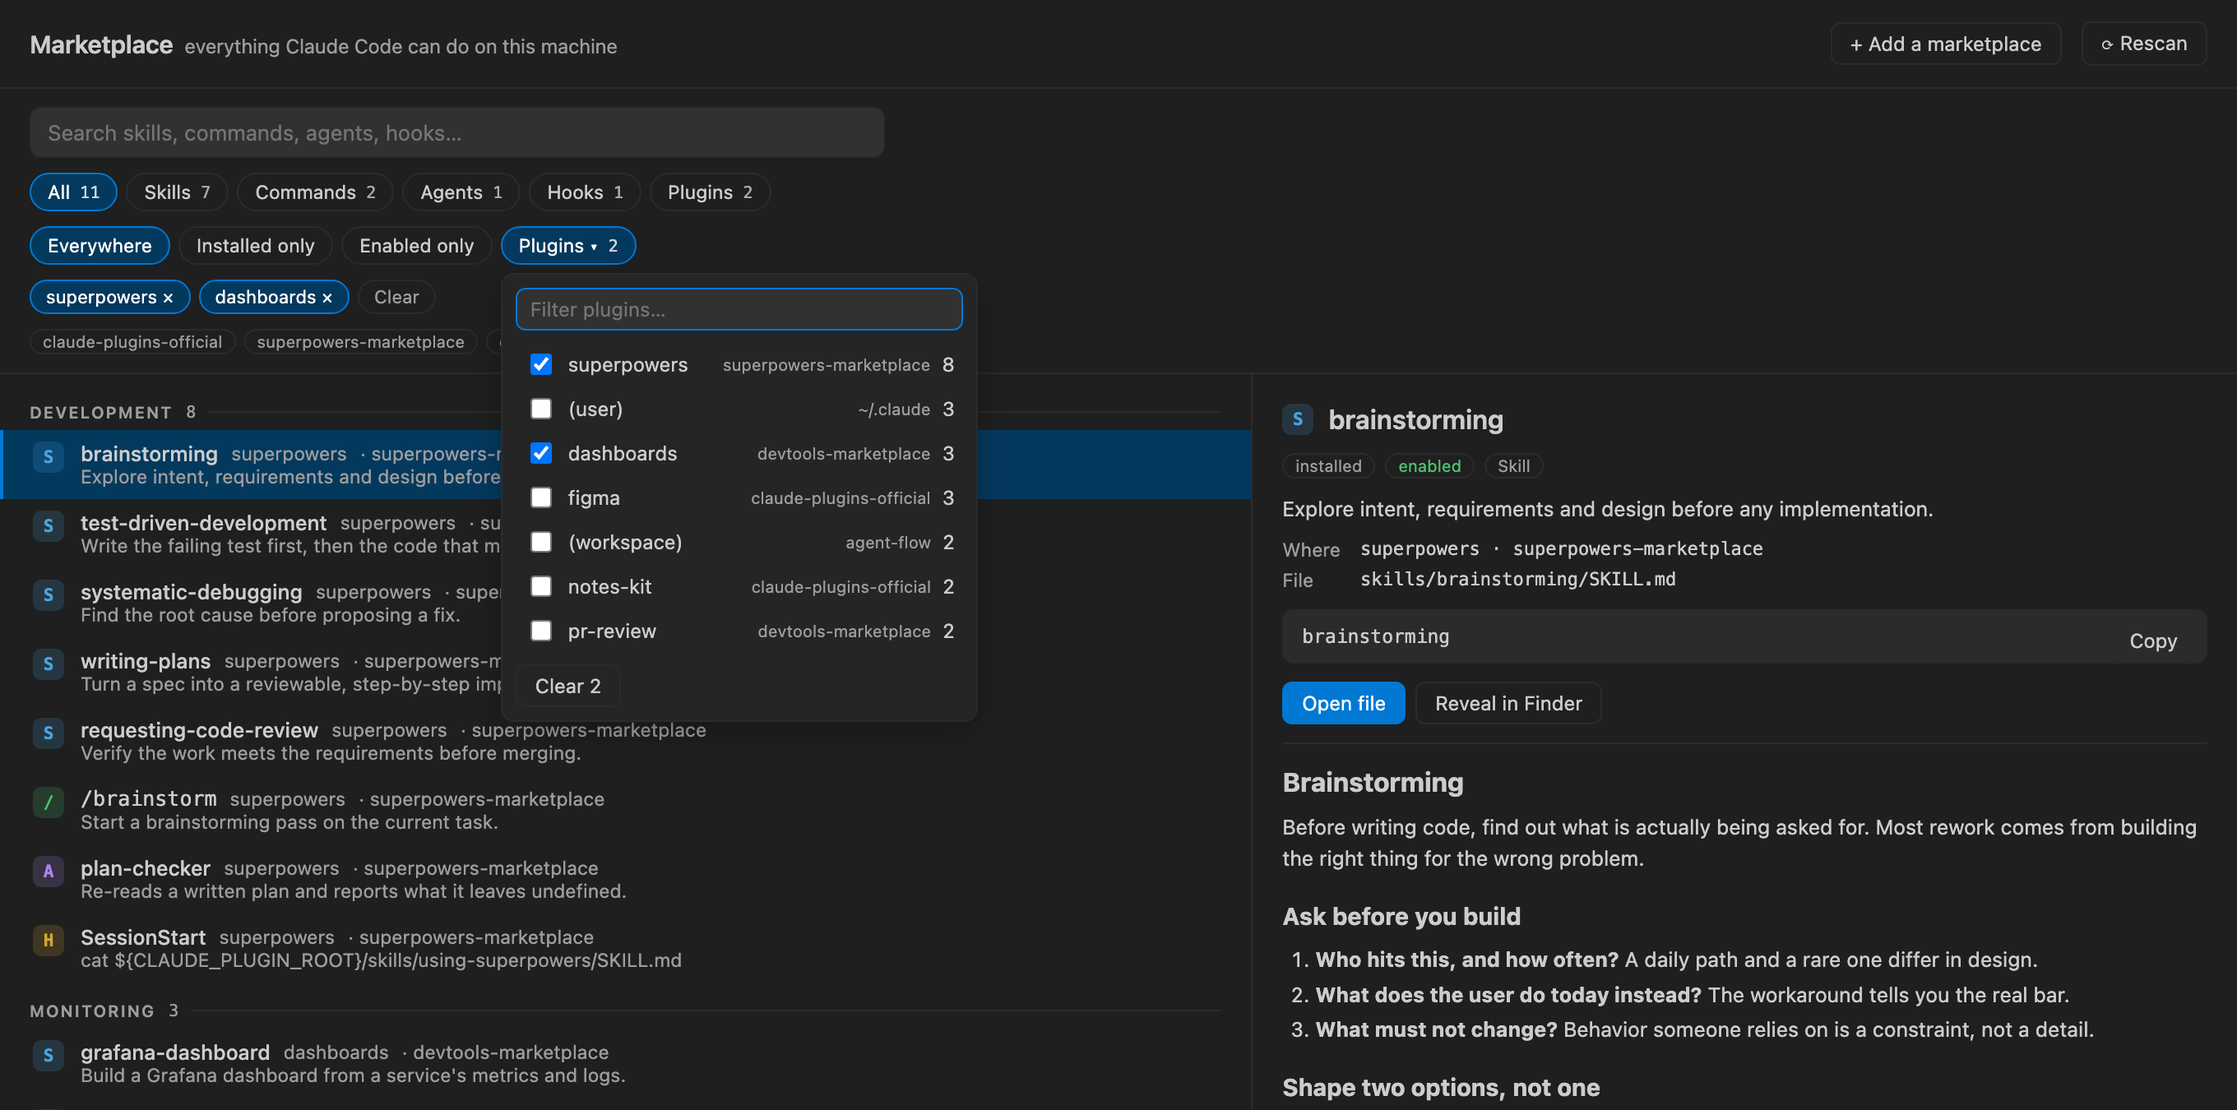
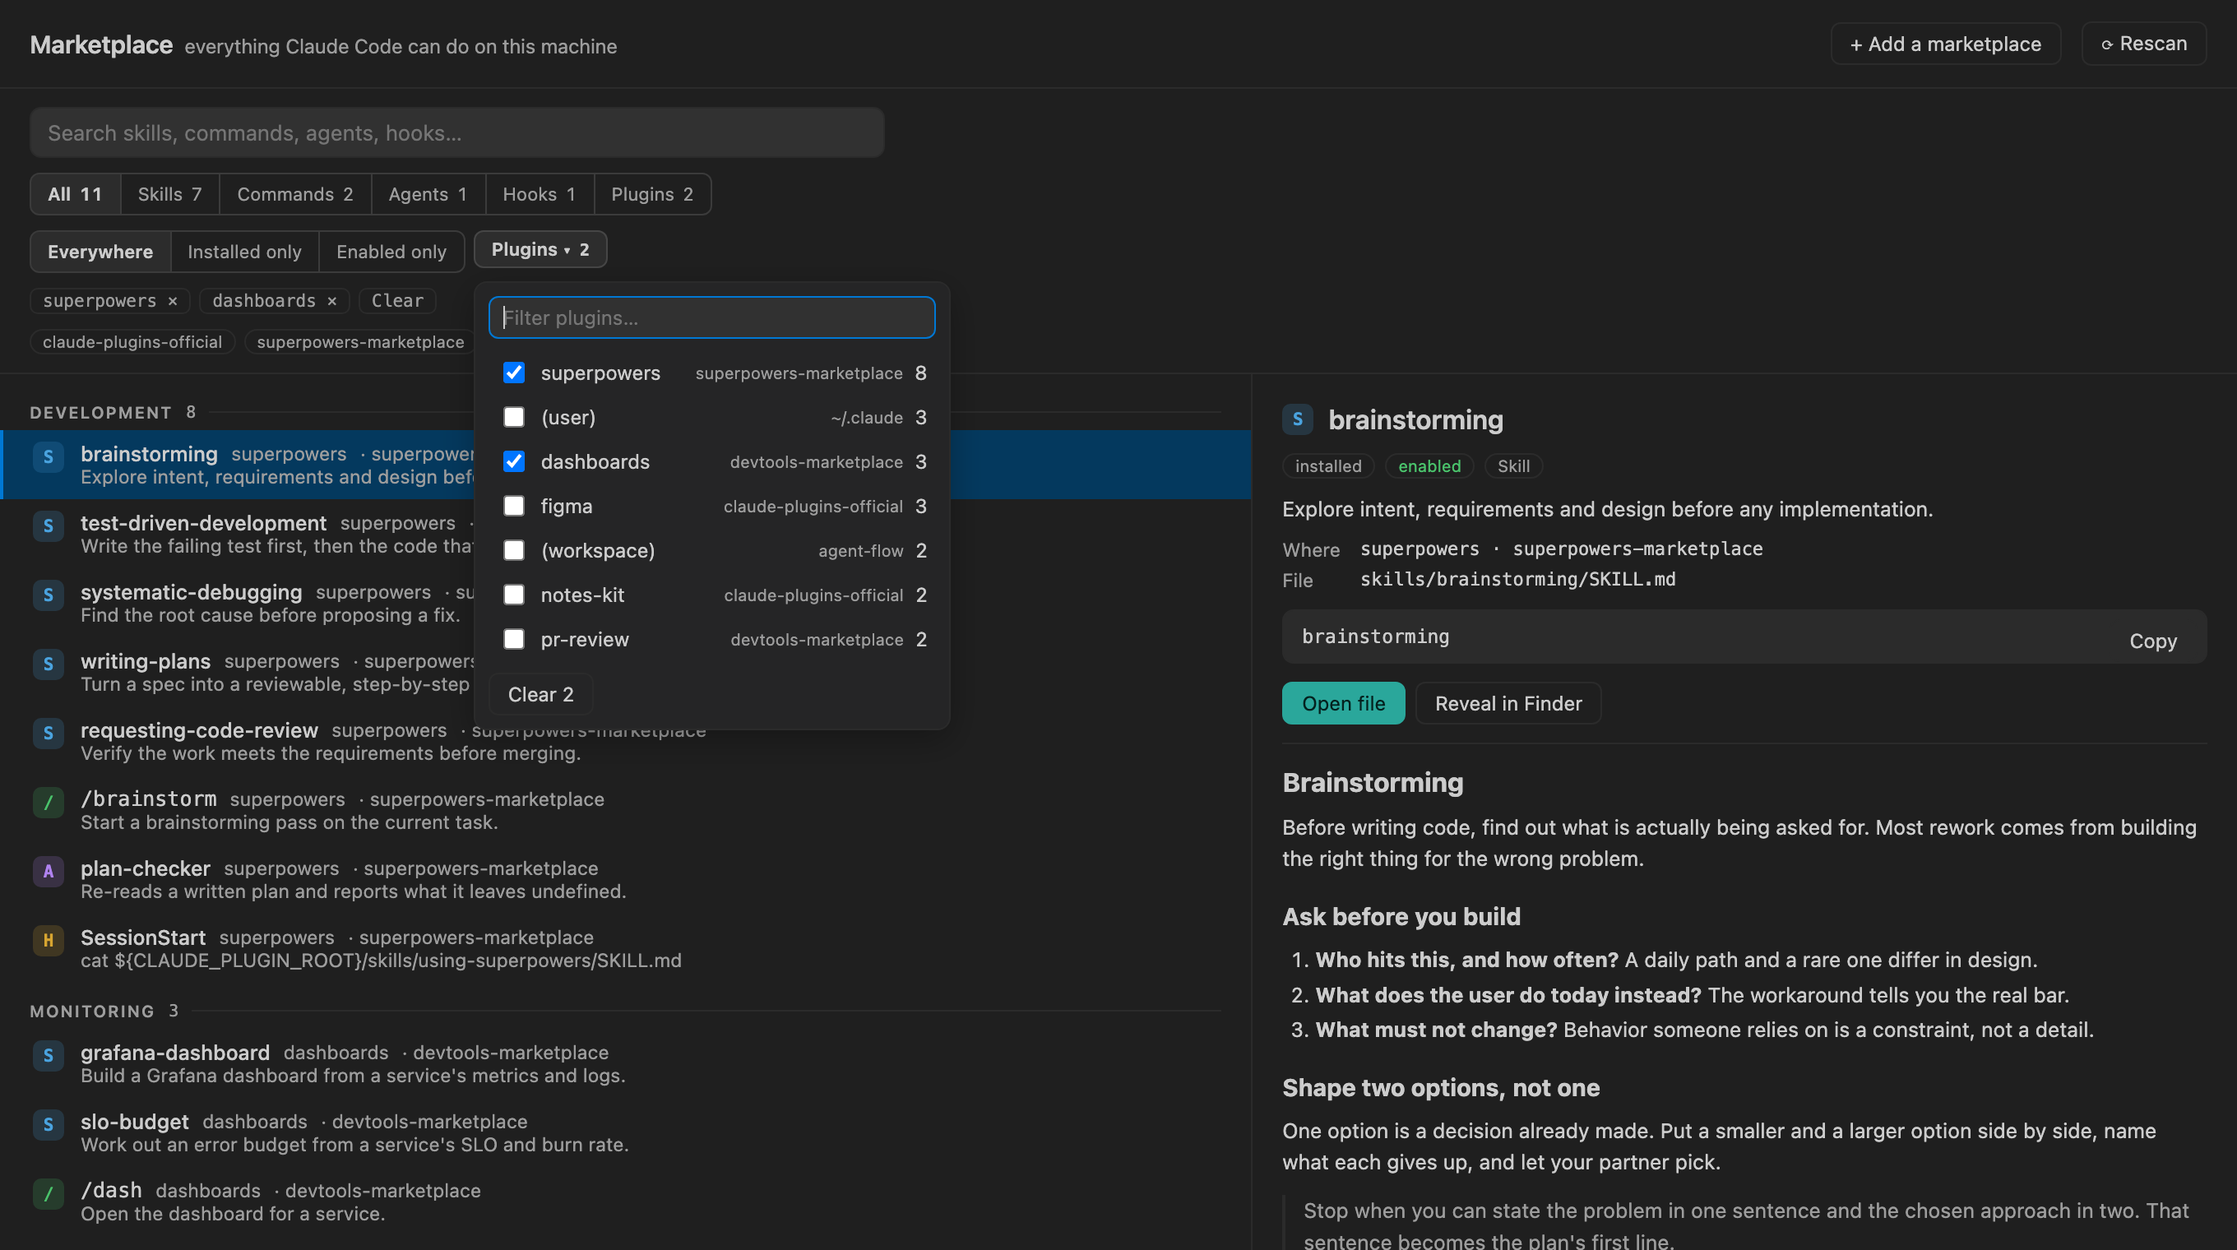
fix(webview): close the whole-branch review's CSS and behaviour findings
Nine defects only visible once all eight tasks' diffs were read together:

- .seg and the Deck's .ctls both clip an outward focus ring against their own
  radius, so keyboard focus was invisible on every sidebar lens, both
  Marketplace filter groups, and the Deck's segmented controls. Draw the ring
  inside instead (outline-offset: -2px) in both CONTROLS_CSS and deckStyles.ts.
- .act.primary:hover filled theme blue while the sidebar's Take and the
  Marketplace's Open file stayed teal under the pointer. Escalate the same
  brand hue on hover instead, and correct the neighbouring comment, which
  explained hover behaviour that predates the accent.
- liveCount was computed only in postState, so the header gauge was a
  mount-time snapshot despite its own doc comment claiming otherwise. Carry it
  on the tasks message too, recomputed from the same liveWindows() helper and
  trackOpenWindows gate every time the pool refreshes.
- .batch-launch (the sticky bar directly beneath a column of teal Take
  buttons) and .gate .btn (Sign in to Jira / Run setup) were the last two
  filled controls still on the theme's blue button color; both are now the
  accent, since each is the primary verb of its own state.
- .explore and .address-pr/.sprint-add/.sprint-remove carried nine identical
  declarations and identical :hover blocks (Tasks 4 and 5b couldn't see each
  other's edit); merged into one selector list with the two real differences
[…]

diff --git a/src/webview/styles.ts b/src/webview/styles.ts
@@ -9,7 +9,7 @@ export const CSS = `
   #root { padding: 8px 8px 20px; }
 
   .header { display: flex; align-items: center; gap: 8px; padding: 4px 4px 10px; }
-  .header .title { display: inline-flex; align-items: center; gap: 6px; font-weight: 600; font-size: 13px; }
+  .header .title { display: inline-flex; align-items: center; gap: 6px; font-weight: 600; font-size: var(--t-title); }
   .header .me { color: var(--vscode-descriptionForeground); font-size: 11px; margin-left: 8px; }
 
   /* The mark is the sidebar's status display: lit dots are open Agent Flow
@@ -20,14 +20,8 @@ export const CSS = `
   .gauge .unlit { fill: currentColor; opacity: .26; }
   .gauge .tex { fill: currentColor; opacity: .4; }
   /* The pool's one filled control is Take. Explore is the way out when no ticket
-     fits — useful, not primary — so it takes the secondary language. */
-  .explore { display: inline-flex; align-items: center; gap: 5px; margin-left: auto;
-    font-size: var(--t-body); font-weight: 500; height: 24px; padding: 0 10px;
-    border-radius: var(--r-ctl); cursor: pointer;
-    border: 1px solid var(--edge); background: transparent; color: var(--vscode-foreground);
-    transition: background-color .12s ease, border-color .12s ease; }
-  .explore:hover { background: var(--vscode-toolbar-hoverBackground);
-    border-color: color-mix(in srgb, var(--vscode-foreground) 30%, transparent); }
+     fits — useful, not primary — so it shares the secondary action language below
+     with Address PR and the sprint actions, rather than repeating it. */
   .explore svg { display: block; }
 
   .lenses { display: flex; flex-direction: column; gap: 6px; margin: 0 2px 10px; }
@@ -135,7 +129,7 @@ export const CSS = `
      means exactly one thing, and it is the Highest chip. */
   .status--new, .status--indeterminate, .status--done { color: var(--dim); }
   .spacer { flex: 1; }
-  .take { display: inline-flex; align-items: center; gap: 5px; font-size: 11px; font-weight: 600;
+  .take { display: inline-flex; align-items: center; gap: 5px; font-size: var(--t-body); font-weight: 600;
     padding: 3px 11px 3px 9px; border-radius: var(--r-ctl); cursor: pointer; border: none;
     background: var(--brand); color: var(--brand-ink);
     transition: background .12s ease; }
@@ -145,15 +139,20 @@ export const CSS = `
   /* Right-aligned action cluster; wraps together to its own line if the row is tight */
   .card-actions { display: inline-flex; align-items: center; gap: 7px; margin-left: auto; }
 
-  /* Address PR gives up its green: green means Done on the Deck, and a PR waiting
-     on you is the opposite of done. */
-  .address-pr, .sprint-add, .sprint-remove {
+  /* One quiet secondary language for every non-Take action: Explore (the pool's
+     escape hatch), Address PR (which gives up its green — green means Done on the
+     Deck, and a PR waiting on you is the opposite of done) and the sprint actions.
+     Explore is the only one pushed to the row's far side; the other three are the
+     only ones that must never wrap their own label. */
+  .explore, .address-pr, .sprint-add, .sprint-remove {
     display: inline-flex; align-items: center; gap: 5px; font-size: var(--t-body); font-weight: 500;
-    height: 24px; padding: 0 10px; border-radius: var(--r-ctl); cursor: pointer; white-space: nowrap;
+    height: 24px; padding: 0 10px; border-radius: var(--r-ctl); cursor: pointer;
     border: 1px solid var(--edge); background: transparent; color: var(--vscode-foreground);
     transition: background-color .12s ease, border-color .12s ease; }
+  .explore { margin-left: auto; }
+  .address-pr, .sprint-add, .sprint-remove { white-space: nowrap; }
   .sprint-remove { color: var(--dim); }
-  .address-pr:hover, .sprint-add:hover, .sprint-remove:hover {
+  .explore:hover, .address-pr:hover, .sprint-add:hover, .sprint-remove:hover {
     background: var(--vscode-toolbar-hoverBackground);
     border-color: color-mix(in srgb, var(--vscode-foreground) 30%, transparent); }
   /* Icon-only: a square of the same height, so the row reads as one set of controls. */
@@ -223,14 +222,16 @@ export const CSS = `
      italics, matching the Deck's ~inferred convention. */
   .svc { font-family: var(--mono); font-size: var(--t-data); padding: 1px 6px;
     border-radius: var(--r-chip); border: 1px solid var(--hair); color: var(--dim); }
-  .svc.guess { font-style: normal; opacity: .8; }
+  .svc.guess { opacity: .8; }
 
   .empty, .gate { text-align: center; color: var(--vscode-descriptionForeground);
     padding: 28px 12px; font-size: 12px; }
+  /* Sign in to Jira / Run setup — the one action the gate screen offers, so it is
+     a primary verb the same way Take is. */
   .gate .btn { margin-top: 12px; padding: 6px 16px; border: none; border-radius: 4px;
-    background: var(--vscode-button-background); color: var(--vscode-button-foreground);
+    background: var(--brand); color: var(--brand-ink);
     cursor: pointer; font-size: 12px; }
-  .gate .btn:hover { background: var(--vscode-button-hoverBackground); }
+  .gate .btn:hover { background: color-mix(in srgb, var(--brand) 84%, var(--vscode-foreground)); }
   .gate .gate-error { color: var(--vscode-errorForeground); line-height: 1.5; }
   .loading { color: var(--vscode-descriptionForeground); font-size: 12px; padding: 12px 4px; }
 
@@ -268,8 +269,10 @@ export const CSS = `
   .batch-count { font-size: 11px; color: var(--vscode-descriptionForeground); }
   .batch-selectall, .batch-clear { background: none; border: none; cursor: pointer; padding: 0;
     font-size: 11px; color: var(--vscode-textLink-foreground); }
+  /* The sticky bar's one action, directly beneath a column of teal Take buttons —
+     the same verb, so the same fill. */
   .batch-launch { margin-left: auto; display: inline-flex; align-items: center; gap: 5px;
     font-size: 12px; padding: 4px 12px; border-radius: 8px; border: none; cursor: pointer;
-    background: var(--vscode-button-background); color: var(--vscode-button-foreground); }
-  .batch-launch:hover { background: var(--vscode-button-hoverBackground); }
+    background: var(--brand); color: var(--brand-ink); }
+  .batch-launch:hover { background: color-mix(in srgb, var(--brand) 84%, var(--vscode-foreground)); }
 `;

diff --git a/src/webview/deckStyles.ts b/src/webview/deckStyles.ts
@@ -51,6 +51,9 @@ export const DECK_CSS = `
   .ctls { display: inline-flex; flex: none; border: 1px solid var(--edge); border-radius: var(--r-ctl); overflow: hidden; }
   .ctls .ctl { border: 0; border-radius: 0; }
   .ctls .ctl + .ctl { box-shadow: inset 1px 0 0 var(--edge); }
+  /* .ctls clips its children against its own radius, which also clips an outward
+     focus ring drawn by :focus-visible. Draw it inside instead. */
+  .ctls .ctl:focus-visible { outline-offset: -2px; }
   .ctl { display: inline-flex; align-items: center; gap: 7px; height: 26px; cursor: pointer; user-select: none;
     font-size: var(--t-body); padding: 0 10px; border-radius: var(--r-ctl); white-space: nowrap;
     border: 1px solid var(--edge); background: transparent; color: var(--dim);
@@ -205,15 +208,21 @@ export const DECK_CSS = `
     background: color-mix(in srgb, var(--brand) 13%, transparent);
     border-color: color-mix(in srgb, var(--brand) 52%, transparent);
     color: color-mix(in srgb, var(--brand) 72%, var(--vscode-foreground)); }
-  .act.primary:hover { background: var(--vscode-button-background); color: var(--vscode-button-foreground);
-    border-color: var(--vscode-button-background); }
+  /* Same hue, more of it — matching how .take and .btn.pri escalate on hover. The
+     ordinary primary stays teal under the pointer instead of swapping to the
+     theme's own button blue. */
+  .act.primary:hover { background: color-mix(in srgb, var(--brand) 22%, transparent);
+    border-color: color-mix(in srgb, var(--brand) 68%, transparent);
+    color: color-mix(in srgb, var(--brand) 84%, var(--vscode-foreground)); }
   /* The board's only colored call to action, on the only card that is asking for one.
      Outlined rather than filled on purpose: a theme owns charts.orange, and it ranges
      from pale amber to burnt sienna, so no fixed ink is legible on all of them. Mixing
      the label toward the theme's own foreground self-corrects — it darkens the orange on
-     a light theme and lightens it on a dark one, clearing 5:1 either way. Hover is
-     deliberately not overridden: every primary on the board fills with the theme's
-     button colors, so the attn card differs only at rest. */
+     a light theme and lightens it on a dark one, clearing 5:1 either way. This rule has
+     no :hover of its own, and its selector out-specifies .act.primary:hover (four class
+     steps against three), so hovering an attn card's primary keeps these rest colors
+     rather than picking up the ordinary primary's teal escalation — attn and ordinary
+     differ in hue, hovered or not. */
   .card.attn .act.primary { background: color-mix(in srgb, var(--c-attn) 12%, transparent);
     border-color: color-mix(in srgb, var(--c-attn) 60%, transparent);
     color: color-mix(in srgb, var(--c-attn) 78%, var(--vscode-foreground)); }

diff --git a/src/webview/tokens.ts b/src/webview/tokens.ts
@@ -51,10 +51,10 @@ export const TOKENS_CSS = `
 
   /* VS Code stamps the theme kind onto <body>, so the swap needs no JavaScript. */
   body.vscode-light { --brand: #157F76; --brand-ink: #ffffff; }
-  /* No high-contrast override: the CSS current-color keyword, used outside the
-     color property itself, would resolve a filled button's background to its
-     own label color. The hue already measures 7.10:1 on #000000 and 4.85:1 on
-     #ffffff, so it needs no opt-out. */
+  /* No high-contrast override: currentColor, used outside the color property
+     itself, would resolve a filled button's background to its own label color.
+     The hue already measures 7.10:1 on #000000 and 4.85:1 on #ffffff, so it
+     needs no opt-out. */
 `;
 
 // box-sizing and the reduced-motion query were common to all three surfaces;
@@ -78,6 +78,10 @@ export const BASE_CSS = `
 // signal nothing, and a filled pill next to a teal Take reads as two primaries.
 export const CONTROLS_CSS = `
   .seg { display: inline-flex; flex-wrap: wrap; border: 1px solid var(--edge); border-radius: var(--r-ctl); overflow: hidden; }
+  /* A real border, not the inset-shadow separator .ctl uses: that separator strands
+     itself at the start of a wrapped row (nothing to sit against), where a border
+     just doesn't render on an edge that isn't there. */
+  .seg > button:not(:first-child) { border-left: 1px solid var(--edge); }
   .seg > button { font: inherit; font-size: var(--t-body); height: 24px; padding: 0 10px;
     border: 0; border-radius: 0; background: transparent; color: var(--dim);
     cursor: pointer; white-space: nowrap;
@@ -85,5 +89,8 @@ export const CONTROLS_CSS = `
   .seg > button:hover { background: var(--vscode-toolbar-hoverBackground); color: var(--vscode-foreground); }
   .seg > button[aria-pressed="true"] { color: var(--vscode-foreground); font-weight: 600;
     background: color-mix(in srgb, var(--vscode-foreground) 8%, transparent); }
+  /* .seg clips its children against its own radius, which also clips an outward
+     focus ring. Draw it inside instead — an invisible focus ring is not a focus ring. */
+  .seg > button:focus-visible { outline-offset: -2px; }
   .seg-label { font-size: var(--t-micro); color: var(--dim); margin-right: 2px; }
 `;

diff --git a/src/webview/marketplaceStyles.ts b/src/webview/marketplaceStyles.ts
@@ -38,14 +38,15 @@ export const MARKETPLACE_CSS = `
   .pill { cursor: pointer; font-family: inherit; font-size: var(--t-body); padding: 4px 10px;
     border-radius: var(--r-ctl); border: 1px solid var(--edge); background: transparent; color: var(--dim); }
   .pill:hover { background: var(--vscode-toolbar-hoverBackground); color: var(--vscode-foreground); }
-  .pill.on { color: var(--vscode-foreground); font-weight: 600; }
+  .pill.on { color: var(--vscode-foreground); font-weight: 600;
+    background: color-mix(in srgb, var(--vscode-foreground) 8%, transparent); }
   .pill .n { margin-left: 5px; font-family: var(--mono); font-size: var(--t-micro); color: var(--dim); }
   .pill.on .n { color: var(--vscode-foreground); }
 
   .srcs { display: flex; gap: 5px; flex-wrap: wrap; }
   .tag { font-size: 10px; padding: 1px 7px; border-radius: 20px; border: 1px solid var(--hair);
     color: var(--vscode-descriptionForeground); white-space: nowrap; }
-  .tag.ok { color: var(--vscode-charts-green, #4ac26b); }
+  .tag.ok { color: var(--c-done); }
   .tag.off { text-decoration: line-through; }
   .tag.bad { color: var(--vscode-errorForeground); border-color: var(--vscode-errorForeground); }
   .tag.dim { opacity: .8; }
@@ -141,7 +142,7 @@ export const MARKETPLACE_CSS = `
   .toasts { position: fixed; bottom: 16px; right: 16px; display: flex; flex-direction: column; gap: 8px; }
   .toast { padding: 8px 14px; border-radius: 6px; font-size: 12px; border: 1px solid var(--hair);
     background: var(--vscode-editorWidget-background); }
-  .toast.success { border-color: var(--vscode-charts-green, #4ac26b); }
+  .toast.success { border-color: var(--c-done); }
   .toast.error { border-color: var(--vscode-errorForeground); }
 
   .results::-webkit-scrollbar, .detail::-webkit-scrollbar { width: 9px; }

diff --git a/src/types.ts b/src/types.ts
@@ -340,7 +340,10 @@ export type OutboundMessage =
   // liveCount is absent when trackOpenWindows is off: the sidebar then shows the
   // static mark rather than claiming zero windows are open.
   | { type: "state"; authed: boolean; configured: boolean; project: string; me: string | null; prReviewStatus: string; filters: FilterVisibility; liveCount?: number }
-  | { type: "tasks"; filter: Filter; tasks: JiraTask[] }
+  // Recomputed on every pool refresh (same trackOpenWindows gate and liveWindows()
+  // source as `state`'s liveCount), so the header gauge doesn't go stale between
+  // `state` posts — it was previously a mount-time snapshot only.
+  | { type: "tasks"; filter: Filter; tasks: JiraTask[]; liveCount?: number }
   | { type: "detail"; key: string; descriptionText: string; inferred: string[]; repos: string[];
       // The components actually on the issue, spelled as Jira spells them, and the
       // repo → component map for every discovered repo. Together with `inferred`

diff --git a/src/webview/GaugeMark.tsx b/src/webview/GaugeMark.tsx
@@ -16,10 +16,11 @@ const INNER: [number, number][] = [
 const STATIC_LIT = 6;
 
 /**
- * The mark, doubling as a gauge. `live` is the number of Agent Flow windows open
- * right now; omit it (the host omits it when trackOpenWindows is off) to get the
- * static lockup. It never animates: the sidebar has no turn state, so a pulse
- * would imply activity this component cannot see.
+ * The mark, doubling as a gauge. `live` is the number of Agent Flow windows open,
+ * as of the host's last `state` or `tasks` post — it updates whenever the pool
+ * refreshes, not just at mount. Omit it (the host omits it when trackOpenWindows
+ * is off) to get the static lockup. It never animates: the sidebar has no turn
+ * state, so a pulse would imply activity this component cannot see.
  */
 export function GaugeMark({ live, size = 15 }: { live?: number; size?: number }): JSX.Element {
   const known = live !== undefined;

diff --git a/src/webview/helpers.ts b/src/webview/helpers.ts
@@ -54,7 +54,7 @@ export function isPrReviewStatus(status: string, configured: string): boolean {
  * same visual position meant two things across two surfaces. Jira's statusCategory
  * is the only status axis the sidebar receives, so there are exactly three hues.
  */
-export function railClass(statusCategory: string | undefined): string {
+export function railClass(statusCategory: string | undefined): "s-new" | "s-progress" | "s-done" {
   if (statusCategory === "indeterminate") return "s-progress";
   if (statusCategory === "done") return "s-done";
   return "s-new";

diff --git a/src/tasksView.ts b/src/tasksView.ts
@@ -246,7 +246,8 @@ export class TasksViewProvider implements vscode.WebviewViewProvider {
             }
             outgoing = sortBySavedOrder(tasks, this.savedOrder());
           }
-          this.post({ type: "tasks", filter: m.filter, tasks: outgoing });
+          this.post({ type: "tasks", filter: m.filter, tasks: outgoing,
+            liveCount: cfg.trackOpenWindows ? this.liveWindows().length : undefined });
           this.post({ type: "loading", loading: false });
           break;
         }

diff --git a/src/webview/App.tsx b/src/webview/App.tsx
@@ -202,6 +202,7 @@ export function App(): JSX.Element {
           setError(null);
           setFilter(m.filter);
           setTasks(m.tasks);
+          setLiveCount(m.liveCount);
           setExpanded(new Set());
           setBatchSelected(new Set());
           // Drop status selections that no longer exist in the fresh pool — otherwise
